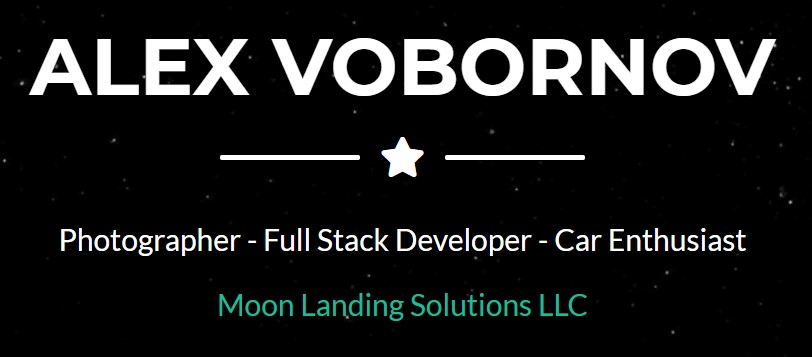
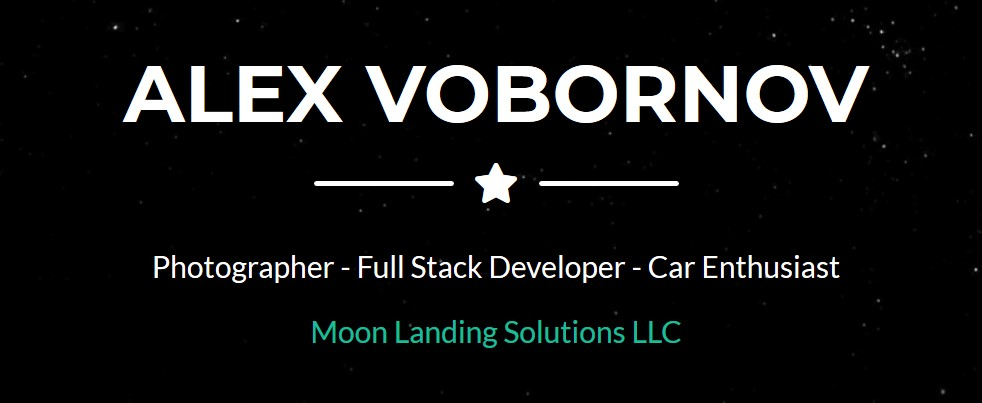
update image og

diff --git a/index.html b/index.html
@@ -17,7 +17,7 @@
     <meta property="og:type" content="website">
     <meta property="og:title" content="Alex Vobornov">
     <meta property="og:description" content="Full Stack Computer Scientist">
-    <meta property="og:image" content="img/portfolio/newOG.jpg">
+    <meta property="og:image" content="img/portfolio/og.jpg">
 
     <!-- Twitter Meta Tags -->
     <meta name="twitter:card" content="summary_large_image">
@@ -25,7 +25,7 @@
     <meta property="twitter:url" content="https://alexvobo.com/">
     <meta name="twitter:title" content="Alex Vobornov">
     <meta name="twitter:description" content="Full Stack Computer Scientist">
-    <meta name="twitter:image" content="img/portfolio/newOG.jpg">
+    <meta name="twitter:image" content="img/portfolio/og.jpg">
 
     <meta name="author" content="Alex Vobornov">
 
